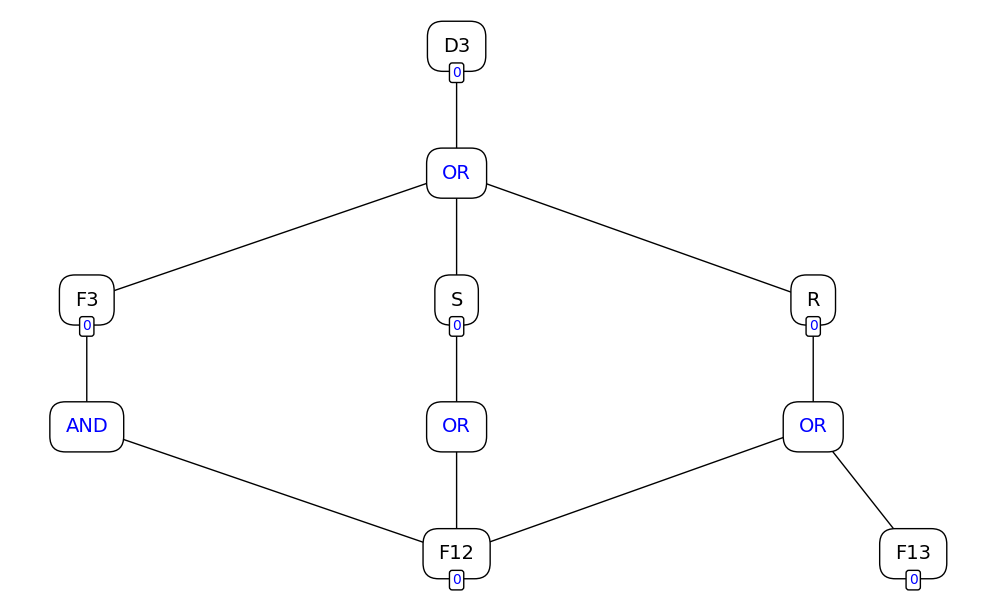
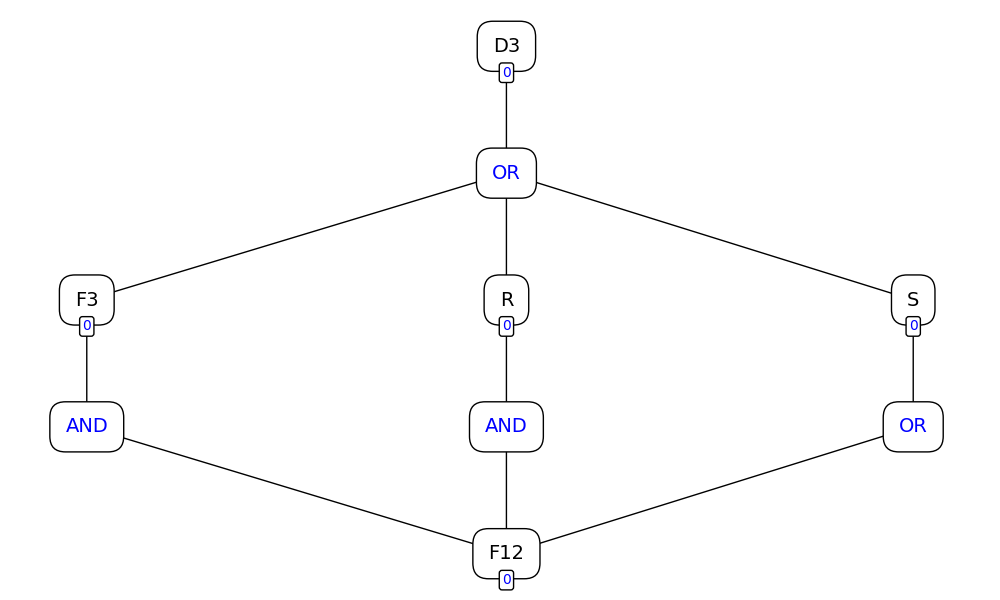
hashtable

diff --git a/FloTest/nx.html b/FloTest/nx.html
@@ -50,8 +50,8 @@
         
 
         // parsing and collecting nodes and edges from the python
-        nodes = new vis.DataSet([{"id": "D3", "label": "D3", "shape": "box", "title": "D3", "x": 371.17, "y": -408.0}, {"id": "F3", "label": "F3", "shape": "box", "title": "F3", "x": 175.17, "y": -216.0}, {"group": "leaf", "id": "F12", "label": "F12", "shape": "box", "title": "F12", "x": 371.17, "y": -24.0}, {"id": "R", "label": "R", "shape": "box", "title": "R", "x": 560.17, "y": -216.0}, {"group": "leaf", "id": "F13", "label": "F13", "shape": "box", "title": "F13", "x": 613.17, "y": -24.0}, {"id": "S", "label": "S", "shape": "box", "title": "S", "x": 371.17, "y": -216.0}, {"group": "logic", "id": "D3_LOGIC", "label": "OR", "shape": "box", "x": 371.17, "y": -312.0}, {"group": "logic", "id": "F3_LOGIC", "label": "AND", "shape": "box", "x": 175.17, "y": -120.0}, {"group": "logic", "id": "R_LOGIC", "label": "OR", "shape": "box", "x": 560.17, "y": -120.0}, {"group": "logic", "id": "S_LOGIC", "label": "OR", "shape": "box", "x": 371.17, "y": -120.0}]);
-        edges = new vis.DataSet([{"from": "D3_LOGIC", "to": "F3"}, {"from": "F3_LOGIC", "to": "F12"}, {"from": "D3_LOGIC", "to": "R"}, {"from": "R_LOGIC", "to": "F12"}, {"from": "R_LOGIC", "to": "F13"}, {"from": "D3_LOGIC", "to": "S"}, {"from": "S_LOGIC", "to": "F12"}, {"from": "D3", "to": "D3_LOGIC"}, {"from": "F3", "to": "F3_LOGIC"}, {"from": "R", "to": "R_LOGIC"}, {"from": "S", "to": "S_LOGIC"}]);
+        nodes = new vis.DataSet([{"id": "D3", "label": "D3", "shape": "box", "title": "D3", "x": 371.96, "y": -408.0}, {"id": "F3", "label": "F3", "shape": "box", "title": "F3", "x": 175.96, "y": -216.0}, {"group": "leaf", "id": "F12", "label": "F12", "shape": "box", "title": "F12", "x": 371.96, "y": -24.0}, {"id": "R", "label": "R", "shape": "box", "title": "R", "x": 371.96, "y": -216.0}, {"id": "S", "label": "S", "shape": "box", "title": "S", "x": 561.96, "y": -216.0}, {"group": "logic", "id": "D3_LOGIC", "label": "OR", "shape": "box", "x": 371.96, "y": -312.0}, {"group": "logic", "id": "F3_LOGIC", "label": "AND", "shape": "box", "x": 175.96, "y": -120.0}, {"group": "logic", "id": "R_LOGIC", "label": "AND", "shape": "box", "x": 371.96, "y": -120.0}, {"group": "logic", "id": "S_LOGIC", "label": "OR", "shape": "box", "x": 561.96, "y": -120.0}]);
+        edges = new vis.DataSet([{"from": "D3_LOGIC", "to": "F3"}, {"from": "F3_LOGIC", "to": "F12"}, {"from": "D3_LOGIC", "to": "R"}, {"from": "R_LOGIC", "to": "F12"}, {"from": "D3_LOGIC", "to": "S"}, {"from": "S_LOGIC", "to": "F12"}, {"from": "D3", "to": "D3_LOGIC"}, {"from": "F3", "to": "F3_LOGIC"}, {"from": "R", "to": "R_LOGIC"}, {"from": "S", "to": "S_LOGIC"}]);
 
         // adding nodes and edges to the graph
         data = {nodes: nodes, edges: edges};

diff --git a/HashTable/HashTable.c b/HashTable/HashTable.c
@@ -1,0 +1,234 @@
+#include <stdio.h>
+#include <string.h>
+#include <stdlib.h>
+#include <stdbool.h>
+
+typedef struct NodeProperty NodeP;
+struct NodeProperty {
+   char * Name;
+};
+
+typedef struct HashTable HashTable;
+struct HashTable {
+   int size;
+   int numberElem;
+   int * hashArray;
+   NodeP * NodeArray;
+};
+
+HashTable * newHastable(int size) {
+   if (size <=0){
+      return NULL;
+   }
+   HashTable * h = malloc(sizeof(struct HashTable));
+   if(h){
+      h->size = size;
+      h->numberElem = 0;
+      h->hashArray = malloc(sizeof(int)*size);
+      for(int i = 0; i<h->size; i++) {
+         h->hashArray[i] = -1;
+      }
+      h->NodeArray = malloc(sizeof(NodeP)*size);
+      return h;
+   }
+   else {
+      return NULL;
+   }
+}
+
+int hashCodeH(HashTable *h, int key) {
+   return key % h->size;
+}
+
+int NodePKey(NodeP *n) {
+   if (n->Name == NULL){
+      printf("No name initialized for NodeP\n");
+      return -1;
+   }
+   int cnt = 0;
+   int sum = 0;
+   while(n->Name[cnt] != '\n'){
+      sum = sum + (int) n->Name[cnt];
+      cnt++;
+   }
+   return sum;
+}
+
+int NodeIndex(HashTable *h, NodeP *n) {
+   //get the hash 
+   int key = NodePKey(n);
+   if(key<0){
+      printf("Negative key for NodeP\n");
+      return -1;
+   }
+   int hashIndex = hashCodeH(h,key);  
+   
+   //move in array until an empty 
+   while(h->hashArray[hashIndex] >= 0) {
+      int cmp = strcmp(n->Name,h->NodeArray[hashIndex].Name);
+      if(cmp == 0){
+         return hashIndex;
+      }
+      //go to next cell
+      ++hashIndex;
+      
+      //wrap around the table
+      hashIndex %= h->size;
+   }        
+   return -1;        
+}
+
+HashTable * resize(HashTable *h){
+   HashTable * newH = newHastable(h->size*2);
+   for(int i=0; i<h->size; i++){
+      if(h->hashArray[i] >= 0){
+         insertH(newH, &(h->NodeArray[i]));
+      }
+   }
+   return newH;
+}
+
+void insertH(HashTable *h, NodeP *n) {
+   
+   if(h->numberElem+1 > h->size/2){
+      *h = *resize(h);
+   }
+
+   //get the hash 
+   int key = NodePKey(n);
+   if(key<0){
+      printf("Negative key for NodeP\n");
+      return;
+   }
+   int hashIndex = hashCodeH(h,key);  
+
+   //move in array until an empty or deleted cell
+   while(h->hashArray[hashIndex] >= 0) {
+      //go to next cell
+      ++hashIndex;
+      
+      //wrap around the table
+      hashIndex %= h->size;
+   }
+   
+   h->hashArray[hashIndex] = key;
+   h->NodeArray[hashIndex] = *n;
+   h->numberElem +=1;
+}
+
+int deleteH(HashTable *h, NodeP *n) {
+
+   //get the hash 
+   int key = NodePKey(n);
+   if(key<0){
+      printf("Negative key for NodeP\n");
+      return -1;
+   }
+   int hashIndex = hashCodeH(h,key);  
+   //printf("[deleteH] hashIndex : %d\n",hashIndex);
+
+   //move in array until an empty
+   while(h->hashArray[hashIndex] !=-1) {
+   
+      if(h->hashArray[hashIndex] == key) {
+         int key = h->hashArray[hashIndex];
+         h->hashArray[hashIndex] = -2;
+         h->numberElem -=1;
+         return key;
+      }
+      
+      //go to next cell
+      ++hashIndex;
+      
+      //wrap around the table
+      hashIndex %= h->size;
+   }      
+   
+   return -1;        
+}
+
+void displayH(HashTable *h) {
+   printf("Nbr elements : %d\n",h->numberElem);
+   for(int i = 0; i<h->size; i++) {
+      printf(" %d",h->hashArray[i]);
+   }
+   printf("\n");
+}
+
+void displayN(HashTable *h) {
+   for(int i = 0; i<h->size; i++) {
+      printf(" %s\n",h->NodeArray[i].Name);
+   }
+}
+
+int main() {
+   printf("Main\n");
+   struct HashTable *h = newHastable(4);
+   displayH(h);
+   NodeP *n = malloc(sizeof(NodeP));
+   n->Name = "Flocon\n";
+   NodeP *n2 = malloc(sizeof(NodeP));
+   n2->Name = "Thoma\n";
+   NodeP *n3 = malloc(sizeof(NodeP));
+   n3->Name = "Maxence\n";
+   NodeP *n4 = malloc(sizeof(NodeP));
+   n4->Name = "Alex\n";
+   NodeP *n5 = malloc(sizeof(NodeP));
+   n5->Name = "Remiche\n";
+   insertH(h,n);
+   displayH(h);
+   //displayN(h);
+   insertH(h,n2);
+   displayH(h);
+   deleteH(h,n);
+   displayH(h);
+   deleteH(h,n2);
+   displayH(h);
+   insertH(h,n2);
+   displayH(h);
+   insertH(h,n);
+   displayH(h);
+   insertH(h,n3);
+   displayH(h);
+   insertH(h,n4);
+   displayH(h);
+   insertH(h,n5);
+   displayH(h);
+
+   printf("Index : %d\n",NodeIndex(h,n));
+   printf("Index : %d\n",NodeIndex(h,n2));
+   printf("Index : %d\n",NodeIndex(h,n3));
+   printf("Index : %d\n",NodeIndex(h,n4));
+   printf("Index : %d\n",NodeIndex(h,n5));
+
+   deleteH(h,n);
+   deleteH(h,n5);
+   deleteH(h,n2);
+   deleteH(h,n3);
+   deleteH(h,n4);
+   displayH(h);
+
+   printf("Index : %d\n",NodeIndex(h,n5));
+
+   printf("Done\n");
+
+
+   //insert(1, 20);
+   //display();
+   //item = search(37);
+   /*
+   if(item != NULL) {
+      printf("Element found: %d\n", item->data);
+   } else {
+      printf("Element not found\n");
+   }
+
+   delete(item);
+   item = search(37);
+
+   if(item != NULL) {
+      printf("Element found: %d\n", item->data);
+   } else {
+      printf("Element not found\n");
+   }*/
+}

diff --git a/FloTest/t.py b/FloTest/t.py
@@ -484,7 +484,7 @@ class Window(QDialog):
         # https://networkx.org/documentation/stable/_modules/networkx/drawing/nx_agraph.html#pygraphviz_layout
         #nt.show_buttons()
   
-        with open("/home/flo/Desktop/Github/AttackTree/FloTest/pyvis_param.json", 'r') as file:
+        with open("/home/thomas/UCL/AttackTree/FloTest/pyvis_param.json", 'r') as file:
             data_options = json.load(file)
         nt.set_options("var options = " + json.dumps(data_options))
         nt.save_graph('nx.html') 
@@ -497,7 +497,7 @@ class Window(QDialog):
         self.figure.clear()
         self.get_canvas(node_list, edge_list, leaf_cnt)    
         #self.canvas.setContextMenuPolicy(Qt.NoContextMenu)
-        local_url = QUrl.fromLocalFile('/home/flo/Desktop/Github/AttackTree/FloTest/nx.html')
+        local_url = QUrl.fromLocalFile('/home/thomas/UCL/AttackTree/FloTest/nx.html')
         self.canvas.load(local_url)
         #self.canvas.draw()
         print("pressed")
